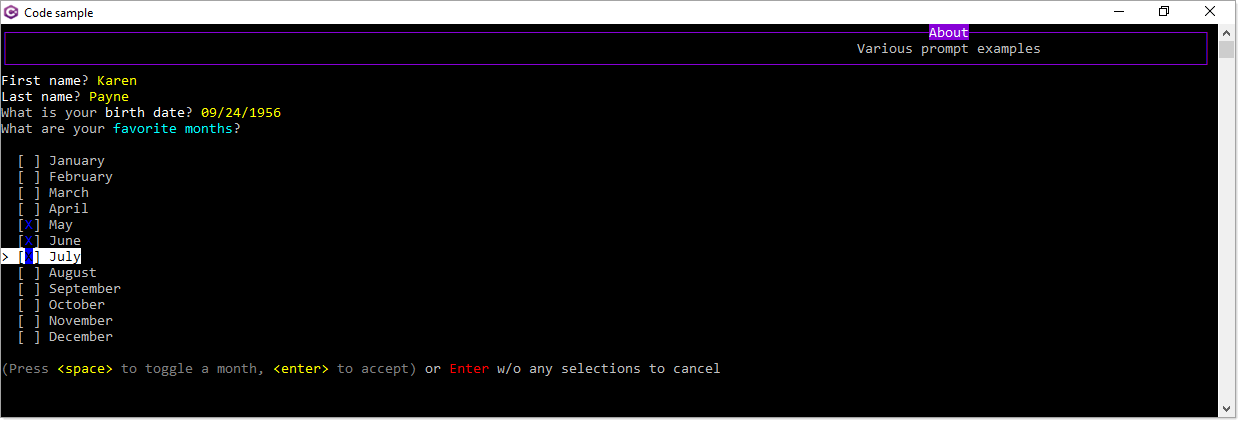
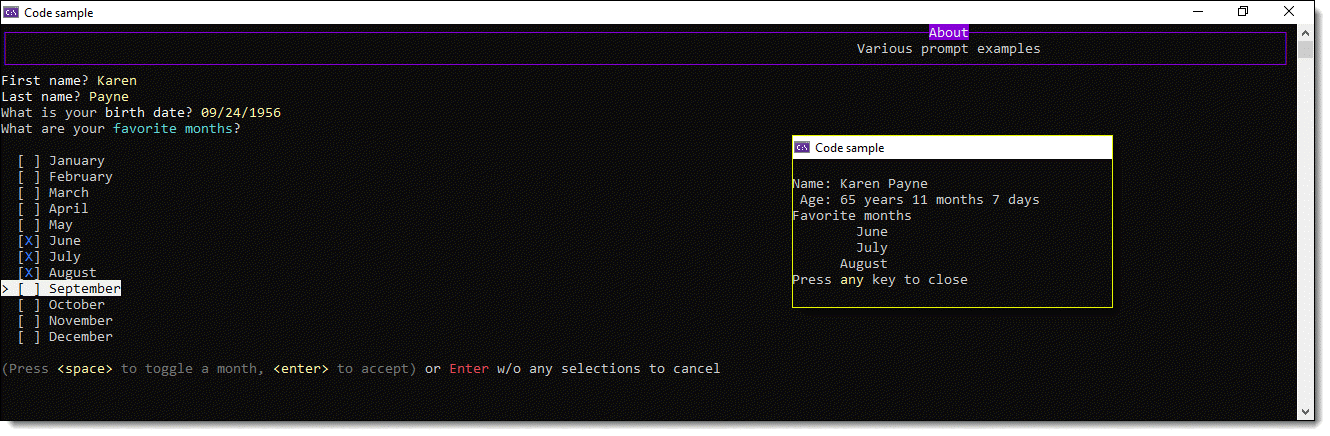
:eight_spoked_asterisk: finished up a project

diff --git a/AskConsoleApp/Classes/Prompt.cs b/AskConsoleApp/Classes/Prompt.cs
@@ -1,0 +1,128 @@
+// Copyright (c) Nate McMaster.
+// Licensed under the Apache License, Version 2.0. See License.txt in the project root for license information.
+
+
+/*
+ * Minor modifications by Karen Payne
+ */
+
+#nullable enable
+using System;
+
+namespace AskConsoleApp.Classes
+{
+    /// <summary>
+    /// Utilities for getting input from an interactive console.
+    /// </summary>
+    public static class Prompt
+    {
+        private const char Backspace = '\b';
+
+        /// <summary>
+        /// Gets a yes/no response from the console after displaying a <paramref name="prompt" />.
+        /// <para>
+        /// The parsing is case insensitive. Valid responses include: yes, no, y, n.
+        /// </para>
+        /// </summary>
+        /// <param name="prompt">The question to display on the command line</param>
+        /// <param name="defaultAnswer">If the user provides an empty response, which value should be returned</param>
+        /// <param name="promptColor">The console color to display</param>
+        /// <param name="promptBgColor">The console background color for the prompt</param>
+        /// <returns>True is 'yes'</returns>
+        public static bool GetYesNo(string prompt, bool defaultAnswer, ConsoleColor? promptColor = null, ConsoleColor? promptBgColor = null)
+        {
+            var answerHint = defaultAnswer ? "[Y/n]" : "[y/N]";
+            do
+            {
+                Write($"{prompt} {answerHint}", promptColor, promptBgColor);
+                Console.Write(' ');
+
+                string? resp;
+                using (ShowCursor())
+                {
+                    resp = Console.ReadLine()?.ToLower()?.Trim();
+                }
+
+                if (string.IsNullOrEmpty(resp))
+                {
+                    return defaultAnswer;
+                }
+
+                switch (resp)
+                {
+                    case "n":
+                    case "no":
+                        return false;
+                    case "y":
+                    case "yes":
+                        return true;
+                    default:
+                        Console.WriteLine($"Invalid response '{resp}'. Please answer 'y' or 'n' or CTRL+C to exit.");
+                        break;
+                }
+            }
+            while (true);
+        }
+
+
+        private static void Write(string value, ConsoleColor? foreground, ConsoleColor? background)
+        {
+            if (foreground.HasValue)
+            {
+                Console.ForegroundColor = foreground.Value;
+            }
+
+            if (background.HasValue)
+            {
+                Console.BackgroundColor = background.Value;
+            }
+
+            Console.Write(value);
+
+            if (foreground.HasValue || background.HasValue)
+            {
+                Console.ResetColor();
+            }
+        }
+
+        private static IDisposable ShowCursor() => new CursorState();
+
+        private class CursorState : IDisposable
+        {
+            private readonly bool _original;
+
+            public CursorState()
+            {
+                try
+                {
+                    _original = Console.CursorVisible;
+                }
+                catch
+                {
+                    // some platforms throw System.PlatformNotSupportedException
+                    // Assume the cursor should be shown
+                    _original = true;
+                }
+
+                TrySetVisible(true);
+            }
+
+            private void TrySetVisible(bool visible)
+            {
+                try
+                {
+                    Console.CursorVisible = visible;
+                }
+                catch
+                {
+                    // setting cursor may fail if output is piped or permission is denied.
+                }
+            }
+
+            public void Dispose()
+            {
+                TrySetVisible(_original);
+            }
+        }
+    }
+}

diff --git a/AskConsoleApp/Program.cs b/AskConsoleApp/Program.cs
@@ -7,8 +7,6 @@ using AskConsoleApp.Models;
 using Spectre.Console;
 using Spectre.Console.Rendering;
 using static System.Globalization.DateTimeFormatInfo;
-using static System.DateTime;
-
 
 namespace AskConsoleApp
 {
@@ -112,42 +110,7 @@ namespace AskConsoleApp
                     new Padding(2, 0, 20, 0)));
         }
 
-        private static void TableBorders()
-        {
-            static IRenderable CreateTable(string name, TableBorder border)
-            {
-                var table = new Table().Border(border);
-                table.AddColumn("[yellow]Header 1[/]", c => c.Footer("[grey]Footer 1[/]"));
-                table.AddColumn("[yellow]Header 2[/]", col => col.Footer("[grey]Footer 2[/]").RightAligned());
-                table.AddRow("Cell", "Cell");
-                table.AddRow("Cell", "Cell");
-
-                return new Panel(table).Header($" [blue]{name}[/] ", Justify.Center).NoBorder();
-            }
-
-            var items = new[]
-            {
-                CreateTable("Ascii", TableBorder.Ascii),
-                CreateTable("Ascii2", TableBorder.Ascii2),
-                CreateTable("AsciiDoubleHead", TableBorder.AsciiDoubleHead),
-                CreateTable("Horizontal", TableBorder.Horizontal),
-                CreateTable("Simple", TableBorder.Simple),
-                CreateTable("SimpleHeavy", TableBorder.SimpleHeavy),
-                CreateTable("Minimal", TableBorder.Minimal),
-                CreateTable("MinimalHeavyHead", TableBorder.MinimalHeavyHead),
-                CreateTable("MinimalDoubleHead", TableBorder.MinimalDoubleHead),
-                CreateTable("Square", TableBorder.Square),
-                CreateTable("Rounded", TableBorder.Rounded),
-                CreateTable("Heavy", TableBorder.Heavy),
-                CreateTable("HeavyEdge", TableBorder.HeavyEdge),
-                CreateTable("HeavyHead", TableBorder.HeavyHead),
-                CreateTable("Double", TableBorder.Double),
-                CreateTable("DoubleEdge", TableBorder.DoubleEdge),
-                CreateTable("Markdown", TableBorder.Markdown),
-            };
-
-            AnsiConsole.Write(new Columns(items).Collapse());
-        }
+  
 
         private static void HorizontalRule(string title)
         {

diff --git a/AskConsoleApp/Classes/Prompts.cs b/AskConsoleApp/Classes/Prompts.cs
@@ -26,19 +26,52 @@ namespace AskConsoleApp.Classes
                     .AllowEmpty());
 
         /// <summary>
-        /// Ask for first name with custom validation error text
+        /// Ask for first name with custom validation error text.
         /// </summary>
         public static string GetFirstName() =>
             AnsiConsole.Prompt(
                 new TextPrompt<string>("[white]First name[/]?")
                     .PromptStyle("yellow")
-                    .Validate(value => value.Length switch
+                    .AllowEmpty()
+                    .Validate(value => value.Trim().Length switch
                     {
-                        < 3 => ValidationResult.Error("[red]Must have at least three characters[/]"),
+                        < 3 => ValidateFirstName(),
                         _ => ValidationResult.Success(),
                     })
                     .ValidationErrorMessage("[red]Please enter your first name[/]"));
 
+
+        private static ValidationResult ValidateFirstName()
+        {
+            /*
+             * This would appear to be a logical option but the library
+             * does not permit to input at once and in this case there is
+             * TextPrompt in GetFirstName that prohibits using Confirm
+             */
+            //if (AnsiConsole.Confirm("[lime]Continue[/]"))
+            //{
+            //    Environment.Exit(0);
+            //}
+
+
+            if (!Prompt.GetYesNo("Do you want to continue?",true, ConsoleColor.Cyan))
+            {
+                Environment.Exit(0);
+            }
+
+            return ValidationResult.Error("[red]Must have at least three characters[/]");
+
+        }
+
+        /// <summary>
+        /// A base for asking for a first name without validation
+        /// </summary>
+        public static string GetFirstNameSafe() =>
+            AnsiConsole.Prompt(
+                new TextPrompt<string>("[white]First name[/]?")
+                    .PromptStyle("yellow")
+                    .AllowEmpty()
+                );
 
         /// <summary>
         /// Ask for last name with custom validation error text

diff --git a/MenuConsoleStudentWorkApp/Classes/Program.cs b/MenuConsoleStudentWorkApp/Classes/Program.cs
@@ -25,8 +25,8 @@ namespace MenuConsoleStudentWorkApp
         /// Operations to perform from selection in main menu
         /// </summary>
         /// <param name="menuItem">option from main menu</param>
-        /// <param name="StudentList">current list of students</param>
-        private static void Selection(MenuItem menuItem, List<Student> StudentList)
+        /// <param name="studentList">current list of students</param>
+        private static void Selection(MenuItem menuItem, List<Student> studentList)
         {
             AnsiConsole.Clear();
             
@@ -52,11 +52,11 @@ namespace MenuConsoleStudentWorkApp
                     student = AnsiConsole.Prompt(MenuOperations.StudentMenu());
                     if (student.Id > 0)
                     {
-                        Remove(student, StudentList);
+                        Remove(student, studentList);
                     }
                     break;
                 case 3:
-                    Save(StudentList);
+                    Save(studentList);
                     break;
             }
         }

diff --git a/AskConsoleApp/GlobalSuppressions.cs b/AskConsoleApp/GlobalSuppressions.cs
@@ -1,0 +1,8 @@
+// This file is used by Code Analysis to maintain SuppressMessage
+// attributes that are applied to this project.
+// Project-level suppressions either have no target or are given
+// a specific target and scoped to a namespace, type, member, etc.
+
+using System.Diagnostics.CodeAnalysis;
+
+[assembly: SuppressMessage("Interoperability", "CA1416:Validate platform compatibility", Justification = "<Pending>", Scope = "member", Target = "~M:AskConsoleApp.Classes.Prompt.CursorState.#ctor")]

diff --git a/AskConsoleApp/readme.md b/AskConsoleApp/readme.md
@@ -1,5 +1,96 @@
 # About
 
-TODO
-
 ![Screen Shot](assets/screenShot.png)
+
+This code sample demonstrates how to create, in this case an instance of a person class.
+
+`Spectre.Console` library makes what follows easy in regards to 
+
+- Asking for user input with and without validation
+- Get input as a type e.g. DateTime, int, string rather than in conventional apps accepting a string, validate and convert
+- Easily colorize items on the screen.
+
+```csharp
+public class Person
+{
+    public string FirstName { get; set; }
+    public string LastName { get; set; }
+    public string FullName => $"{FirstName} {LastName}";
+    public DateTime? BirthDate { get; set; }
+    public List<string> FavoriteMonths { get; set; }
+    public string Age() => BirthDate == MinValue ? "" : BirthDate?.Age(Now).YearsMonthsDays;
+}
+```
+
+First ask for a first name using a prompt which has validation.
+
+```csharp
+public static string GetFirstName() =>
+    AnsiConsole.Prompt(
+        new TextPrompt<string>("[white]First name[/]?")
+            .PromptStyle("yellow")
+            .AllowEmpty()
+            .Validate(value => value.Trim().Length switch
+            {
+                < 3 => ValidateFirstName(),
+                _ => ValidationResult.Success(),
+            })
+            .ValidationErrorMessage("[red]Please enter your first name[/]"));
+```
+
+First ask for a first name using a prompt which has validation. Here we allow an empty string which goes to a validator ValidateFirstName and the same if the input length is less than three characters. If the user decides to continue an error message appears indicating validation failed and again prompts for first name.
+
+
+`Spectre.Console` library has a confirm method to ask a question which can only be used when no other prompts from this library are active so to resolve this, in this case I stole a pre-done question method.
+
+We than ask for a last name, unlike first name the prompt requires validation rules to be satisfied but for a real app we should follow the same as with first name.
+
+Next a date is asked for as with first name, an empty entry is allowed. Note the validation rule, the date year must be greater or equal to 2001.
+
+```csharp
+public static DateTime? GetBirthDate() =>
+    AnsiConsole.Prompt(
+        new TextPrompt<DateTime>("What is your [white]birth date[/]?")
+            .PromptStyle("yellow")
+            .ValidationErrorMessage("[red]Please enter a valid date or press ENTER to not enter a date[/]")
+            .Validate(dateTime => dateTime.Year switch
+            {
+                    >= 2001 => ValidationResult.Error("[red]Must be less than 2001[/]"),
+                _ => ValidationResult.Success(),
+            })
+            .AllowEmpty());
+```
+
+Next, present a menu of months, ask for a single or multiple selection
+
+```csharp
+public static List<string> GetFavoriteMonths() => AnsiConsole.Prompt
+(
+    new MultiSelectionPrompt<string>()
+        .PageSize(12)
+        .Required(false)
+        .Title("What are your [cyan]favorite months[/]?")
+        .InstructionsText("[grey](Press [yellow]<space>[/] to toggle a month, [yellow]<enter>[/] to accept)[/] or [red]Enter[/] w/o any selections to cancel")
+        .AddChoices(CurrentInfo!.MonthNames[..^1])
+        .HighlightStyle(new Style(Color.White, Color.Black, Decoration.Invert))
+);
+```
+
+
+Once all inputs have been entered, display these values.
+
+# Requireents
+
+- Microsoft Visual Studio 2019 or higher
+- The .NET Core Framework 5 or higher
+
+# Summary
+
+If you are a new developer looking for an easy way to accept input there are two things to consider, you can copy-n-paste code into your application and use the code but a better way is to first study the code, understand how things work before performing a copy-n-paste as this will make life easier if a problem arises.
+
+
+For intermediate to advance developers, I would suggest copying code in the Prompts class into a class project and build on code presented for use in one or more console apps.
+
+# Social
+
+[![Stack Overflow](https://img.shields.io/badge/-Stackoverflow-FE7A16?logo=stack-overflow&logoColor=white)](https://stackoverflow.com/users/5509738/karen-payne) [![Twitter](https://img.shields.io/badge/Twitter-%231DA1F2.svg?logo=Twitter&logoColor=white)](http://www.twitter.com/KarenPayneMVP) 

diff --git a/readme.md b/readme.md
@@ -85,3 +85,7 @@ This library has about 100 issues/bugs/feature request, even so knowing them you
 - [Colorful.Console](https://github.com/tomakita/Colorful.Console) Style your .NET console output!
 - [Devlead.Console.Template](https://www.devlead.se/posts/2021/2021-01-15-my-preferred-console-stack) this is considered advance console app coding
 - ([Goblinfactory.Konsole](https://github.com/goblinfactory/progress-bar)) progress-bar console progress bar with support for single or multithreaded progress updates.
+
+# Social
+
+[![Stack Overflow](https://img.shields.io/badge/-Stackoverflow-FE7A16?logo=stack-overflow&logoColor=white)](https://stackoverflow.com/users/5509738/karen-payne) [![Twitter](https://img.shields.io/badge/Twitter-%231DA1F2.svg?logo=Twitter&logoColor=white)](http://www.twitter.com/KarenPayneMVP) 
